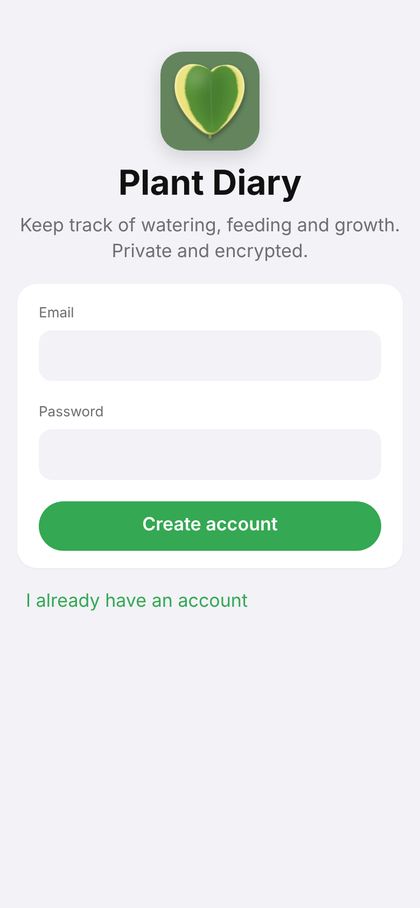
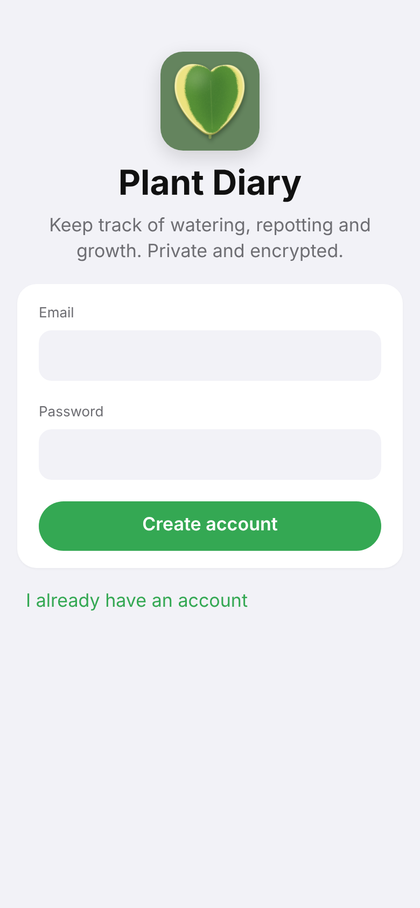
Remove Feed from the app and setup guide
Care actions are now Water and Repot. Water takes the larger button,
the "Fed" row and Feed history option are gone, and the descriptions,
guide text and screenshots are updated to match.

Claude-Session: https://claude.ai/code/session_01W3wJfN4zmsQeVEkfjEuKBq

Changed region(s): [[0.0619, 0.2159, 0.9286, 0.3084]]

diff --git a/js/ui.js b/js/ui.js
@@ -232,7 +232,7 @@ function viewAuth() {
   <main class="auth">
     <img class="app-icon big" src="icons/icon-192.png" alt="">
     <h1 class="app-title">${APP_NAME}</h1>
-    <p class="muted center">Keep track of watering, feeding and growth. Private and encrypted.</p>
+    <p class="muted center">Keep track of watering, repotting and growth. Private and encrypted.</p>
     ${install}
     ${banners()}
     <form id="auth-form" class="card form-card" novalidate>
@@ -410,15 +410,13 @@ function viewPlant(id) {
     <h2 class="section-title">Care</h2>
     <section class="card pad-sm">
       <div class="care-buttons">
-        <button class="btn btn-care wide" data-action="log" data-type="water" data-plant="${esc(plant.id)}"><span class="ci water">${icon.drop}</span>Water</button>
-        <button class="btn btn-care" data-action="log" data-type="feed" data-plant="${esc(plant.id)}"><span class="ci feed">${icon.leaf}</span>Feed</button>
+        <button class="btn btn-care" data-action="log" data-type="water" data-plant="${esc(plant.id)}"><span class="ci water">${icon.drop}</span>Water</button>
         <button class="btn btn-care" data-action="log" data-type="repot" data-plant="${esc(plant.id)}"><span class="ci repot">${icon.repot}</span>Repot</button>
       </div>
       <ul class="kv-list">
         <li class="kv"><span class="care-icon cal">${icon.calendar}</span><span class="kv-label">Next watering</span>
           <span class="kv-value status ${st.tone}">${esc(st.text)}<small>${esc(formatDay(nextWateringDay(plant, events)))}</small></span></li>
         ${careRow('water', space, events)}
-        ${careRow('feed', space, events)}
         ${careRow('repot', space, events)}
       </ul>
       <button class="row-btn" data-action="log-other" data-plant="${esc(plant.id)}">${icon.calendar}<span>Log a different date</span></button>
@@ -533,7 +531,7 @@ function viewSettings() {
       <label class="color-row"><span>Custom background</span><input type="checkbox" class="switch" data-action="toggle-bg" ${t.useBackground ? 'checked' : ''}></label>
       ${t.useBackground ? `<label class="color-row"><span>Background</span><input type="color" data-action="color" data-key="background" value="${esc(t.background)}"></label>` : ''}
       <p class="hint">Automatic follows your iPhone's Light or Dark setting. The custom background is used whenever the app is light; dark appearance keeps a dark background so text stays readable.</p>
-      <div class="preview"><span class="btn btn-care wide"><span class="ci water">${icon.drop}</span>Water</span><span class="link">Log a different date</span></div>
+      <div class="preview"><span class="btn btn-care"><span class="ci water">${icon.drop}</span>Water</span><span class="link">Log a different date</span></div>
       <button class="link" data-action="reset-theme">Reset to default</button>
     </section>
 

diff --git a/css/style.css b/css/style.css
@@ -11,7 +11,6 @@
   --sep: rgba(60, 60, 67, 0.16);
   --field: #f2f2f7;
   --water: #1e7cf2;
-  --feed: #2fb34c;
   --repot: #f08a24;
   --danger: #e5383b;
   --overdue: #d93025;
@@ -189,7 +188,6 @@ svg { flex: none; }
 .btn-care { background: var(--button); color: var(--button-text); min-height: 54px; font-weight: 500; }
 .btn-care .ci { display: inline-grid; place-items: center; }
 .ci.water { color: var(--water); }
-.ci.feed { color: #4cd964; }
 .ci.repot { color: var(--repot); }
 .btn-care .ci.water svg { filter: drop-shadow(0 0 1px rgba(255,255,255,.5)); }
 
@@ -373,11 +371,10 @@ img.loaded { opacity: 1; }
 
 .care-buttons {
   display: grid;
-  grid-template-columns: 1fr 1fr;
+  grid-template-columns: 2fr 1fr;   /* Water is the everyday action, Repot the occasional one */
   gap: 12px;
   padding: 4px 4px 12px;
 }
-.care-buttons .wide { grid-column: 1 / -1; }
 
 .kv-list { list-style: none; margin: 0; padding: 0; }
 .kv {
@@ -402,10 +399,8 @@ img.loaded { opacity: 1; }
 
 .care-icon { width: 26px; display: inline-grid; place-items: center; }
 .care-icon.water { color: var(--water); }
-.care-icon.feed { color: var(--feed); }
 .care-icon.repot { color: var(--repot); }
 .care-icon.cal { color: var(--accent); }
-.care-icon.feed svg path:last-child { stroke: var(--card); }
 
 .photo-strip {
   display: flex;

diff --git a/js/icons.js b/js/icons.js
@@ -5,7 +5,6 @@ const svg = (body, { fill = false } = {}) =>
 
 export const icon = {
   drop: svg('<path d="M12 3.5c-2.6 3.3-6 7.3-6 10.7a6 6 0 0 0 12 0c0-3.4-3.4-7.4-6-10.7z"/>', { fill: true }),
-  leaf: svg('<path d="M5 19c0-8 5.5-13.5 14-14 .2 8.6-5.4 14-13.2 14z" fill="currentColor"/><path d="M5 19 13 11" stroke="#fff"/>'),
   repot: svg('<path d="M19.5 10.5A7.5 7.5 0 0 0 6 6.5M4.5 13.5A7.5 7.5 0 0 0 18 17.5"/><path d="M5 3.5v3.5h3.5M19 20.5V17h-3.5"/>'),
   plus: svg('<path d="M12 5v14M5 12h14"/>'),
   sliders: svg('<path d="M4 7h9M17 7h3M4 17h3M11 17h9"/><circle cx="15" cy="7" r="2"/><circle cx="9" cy="17" r="2"/>'),
@@ -22,7 +21,6 @@ export const icon = {
 };
 
 export const careIcon = (type) => {
-  if (type === 'feed') return `<span class="care-icon feed">${icon.leaf}</span>`;
   if (type === 'repot') return `<span class="care-icon repot">${icon.repot}</span>`;
   return `<span class="care-icon water">${icon.drop}</span>`;
 };

diff --git a/index.html b/index.html
@@ -4,7 +4,7 @@
   <meta charset="utf-8">
   <meta name="viewport" content="width=device-width, initial-scale=1, viewport-fit=cover">
   <title>Plant Diary</title>
-  <meta name="description" content="A private, encrypted plant care log for watering, feeding and growth photos.">
+  <meta name="description" content="A private, encrypted plant care log for watering, repotting and growth photos.">
   <meta name="theme-color" content="#f2f2f7">
   <meta name="color-scheme" content="light dark">
   <meta name="mobile-web-app-capable" content="yes">

diff --git a/js/config.js b/js/config.js
@@ -8,5 +8,5 @@ export const SUPABASE_KEY = 'sb_publishable_iMbvvdV-VzVkCk-hBvr7SA_6qPySF4H';
 export const SUPABASE_DASHBOARD = 'https://supabase.com/dashboard/project/eqfyaeyyiockapusiatn';
 
 export const APP_NAME = 'Plant Diary';
-export const APP_VERSION = '1.1.3';
+export const APP_VERSION = '1.2.0';
 export const SOURCE_URL = 'https://github.com/Fangsheng-Zhou/plant-diary';

diff --git a/sw.js b/sw.js
@@ -1,6 +1,6 @@
 // Plant Diary service worker: makes the app open offline and installs updates.
 // Bump VERSION whenever any app file changes, so phones pick up the update.
-const VERSION = 'plant-diary-1.1.3';
+const VERSION = 'plant-diary-1.2.0';
 
 const SHELL = [
   './',

diff --git a/js/model.js b/js/model.js
@@ -4,7 +4,6 @@
 
 export const CARE_TYPES = {
   water: { action: 'Water', past: 'Watered', icon: 'drop' },
-  feed: { action: 'Feed', past: 'Fed', icon: 'leaf' },
   repot: { action: 'Repot', past: 'Repotted', icon: 'repot' },
 };
 

diff --git a/docs/SETUP.md b/docs/SETUP.md
@@ -129,7 +129,7 @@ Each space is separate. Someone you invite to **Home** cannot see **Work**, even
 
   <img src="images/04-add-plant.png" width="260" alt="Adding a new plant">
 
-- **Plant page:** tap **Water**, **Feed** or **Repot** to log it for today, or **Log a different date** for past care. Add **progress photos** to watch it grow. Tap a history entry to remove it.
+- **Plant page:** tap **Water** or **Repot** to log it for today, or **Log a different date** for past care. Add **progress photos** to watch it grow. Tap a history entry to remove it.
 - **Spaces:** when you have more than one, use the **All / Home / Work** buttons at the top of the home screen.
 - **Offline:** changes made without a connection are saved on the phone and upload automatically when you're back online.
 
@@ -203,7 +203,7 @@ The app updates itself: when new code is pushed to the `main` branch, each phone
 If you change the code yourself:
 
 1. Edit the files and test them.
-2. In [`sw.js`](../sw.js), increase `VERSION` (for example from `plant-diary-1.1.3` to `plant-diary-1.1.4`). This tells phones to download the new files.
+2. In [`sw.js`](../sw.js), increase `VERSION` (for example from `plant-diary-1.2.0` to `plant-diary-1.2.1`). This tells phones to download the new files.
 3. Commit and push to `main`.
 
 If an update changes `supabase/setup.sql`, run it again in the SQL Editor (Part 1a). It's safe to run more than once.

diff --git a/README.md b/README.md
@@ -3,7 +3,7 @@
 A private plant care log for iPhone, built as a web app you add to your Home Screen.
 **New here? Start with the [setup guide](docs/SETUP.md).**
 
-Track watering schedules, feeding and repotting, plant types, cover and progress photos,
+Track watering schedules, repotting, plant types, cover and progress photos,
 and care notes. Share a space (for example Home) with your partner and keep another
 (for example Work) to yourself. Colors are customizable in Settings.
 
